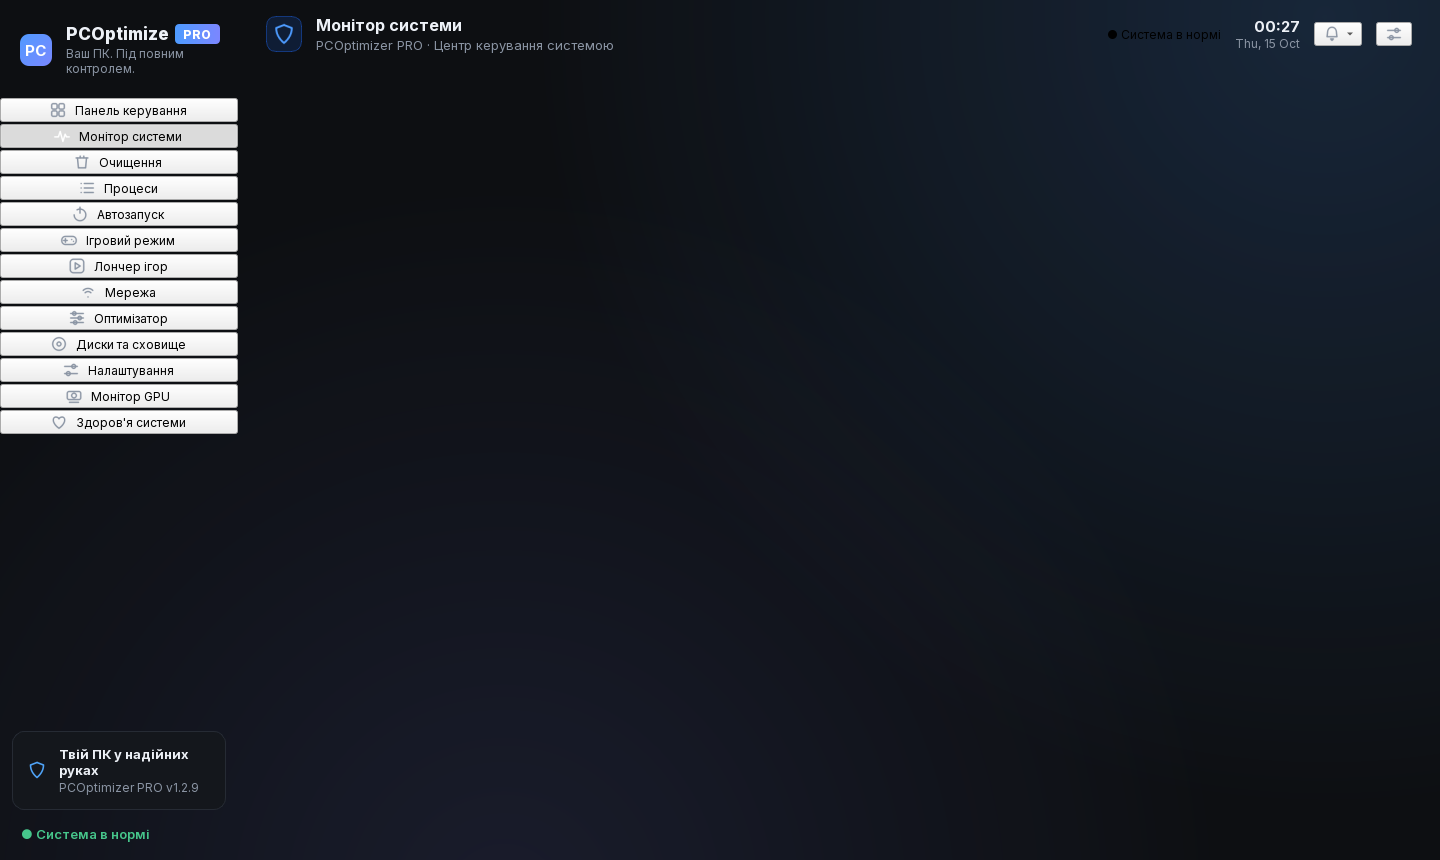
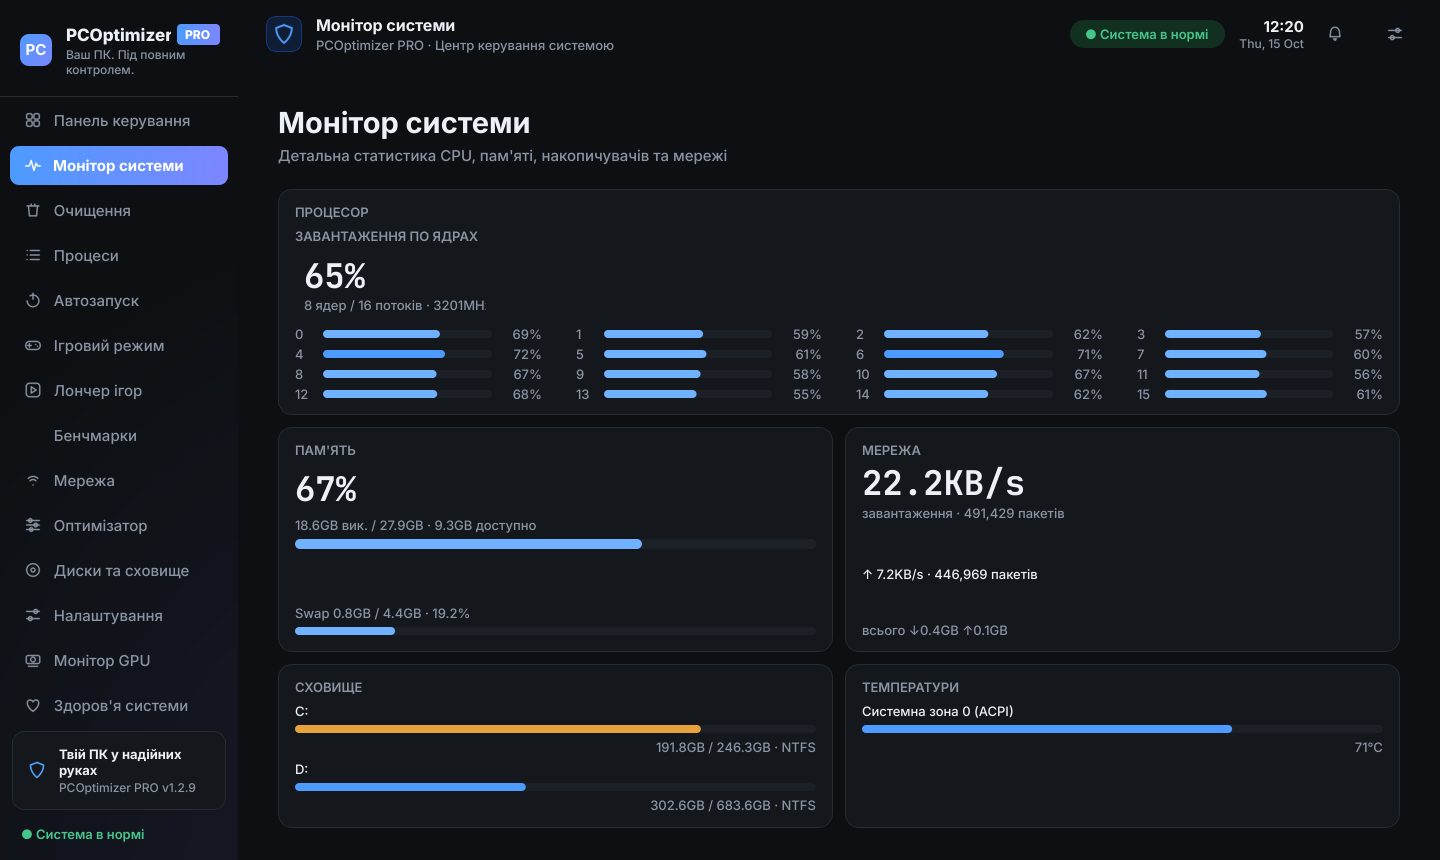
docs: regenerate v1.2.9 screenshots (14 pages incl. launcher/benchmarks) + README screenshot table

diff --git a/README.md b/README.md
@@ -118,15 +118,19 @@
 
 | Дашборд | Монітор системи |
 | --- | --- |
-| ![Дашборд](docs/screenshots/v1.2.8_graphite_dashboard.png) | ![Монітор](docs/screenshots/v1.2.8_graphite_monitor.png) |
+| ![Дашборд](docs/screenshots/v1.2.9_dashboard.png) | ![Монітор](docs/screenshots/v1.2.9_monitor.png) |
 
 | GPU-монітор | PC Health Score |
 | --- | --- |
-| ![GPU](docs/screenshots/v1.2.8_graphite_gpu.png) | ![Health](docs/screenshots/v1.2.8_graphite_health.png) |
+| ![GPU](docs/screenshots/v1.2.9_gpu.png) | ![Health](docs/screenshots/v1.2.9_health.png) |
 
 | Чистильник | Ігровий режим |
 | --- | --- |
-| ![Чистильник](docs/screenshots/v1.2.8_graphite_cleaner.png) | ![Gaming](docs/screenshots/v1.2.8_graphite_gaming.png) |
+| ![Чистильник](docs/screenshots/v1.2.9_cleaner.png) | ![Gaming](docs/screenshots/v1.2.9_gaming.png) |
+
+| Лончер ігор | Бенчмарки |
+| --- | --- |
+| ![Лончер](docs/screenshots/v1.2.9_launcher.png) | ![Бенчмарки](docs/screenshots/v1.2.9_benchmarks.png) |
 
 Решта сторінок: [docs/screenshots](docs/screenshots)
 
